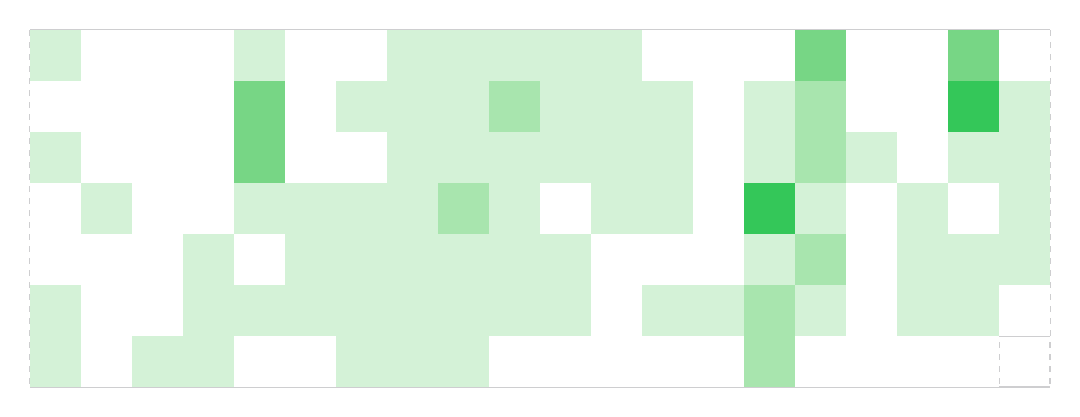
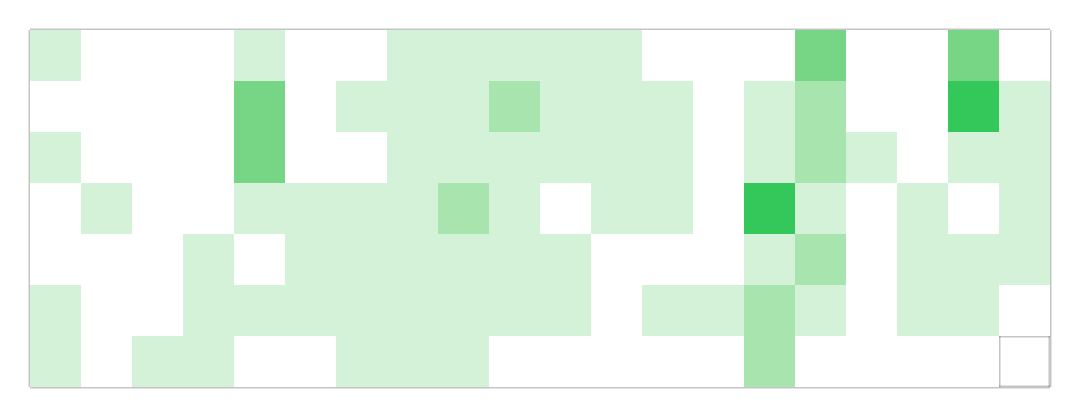
Update GitHub chart gridlines to make them solid

Changed region(s): [[0.9167, 0.9041, 0.9778, 0.9353], [0.9472, 0.7794, 0.9778, 0.8106]]

diff --git a/Swift Charts Examples/Charts/HeatMap/GitHubContributionsGraph.swift b/Swift Charts Examples/Charts/HeatMap/GitHubContributionsGraph.swift
@@ -47,14 +47,14 @@ struct GitHubContributionsGraph: View {
             AxisMarks(values: .automatic(desiredCount: 7,
                                          roundLowerBound: false,
                                          roundUpperBound: false)) { _ in
-                AxisGridLine()
+                AxisGridLine(stroke: .init(lineWidth: 1))
             }
         }
         .chartXAxis {
             AxisMarks(values: .automatic(desiredCount: 20,
                                          roundLowerBound: false,
                                          roundUpperBound: false)) { _ in
-                AxisGridLine()
+                AxisGridLine(stroke: .init(lineWidth: 1))
             }
         }
         .chartYScale(domain: .automatic(reversed: true))
